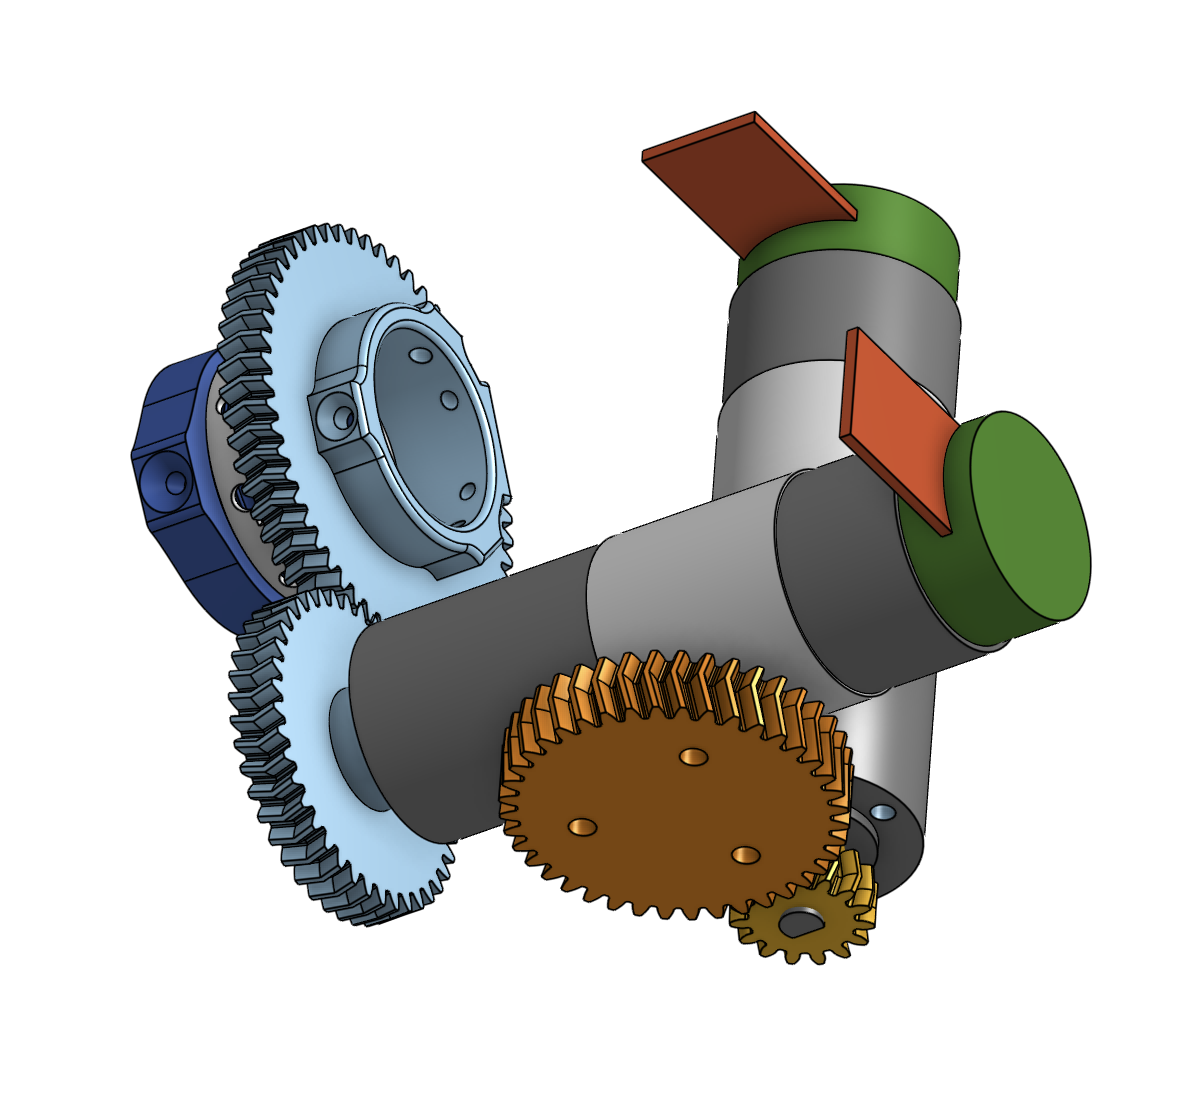
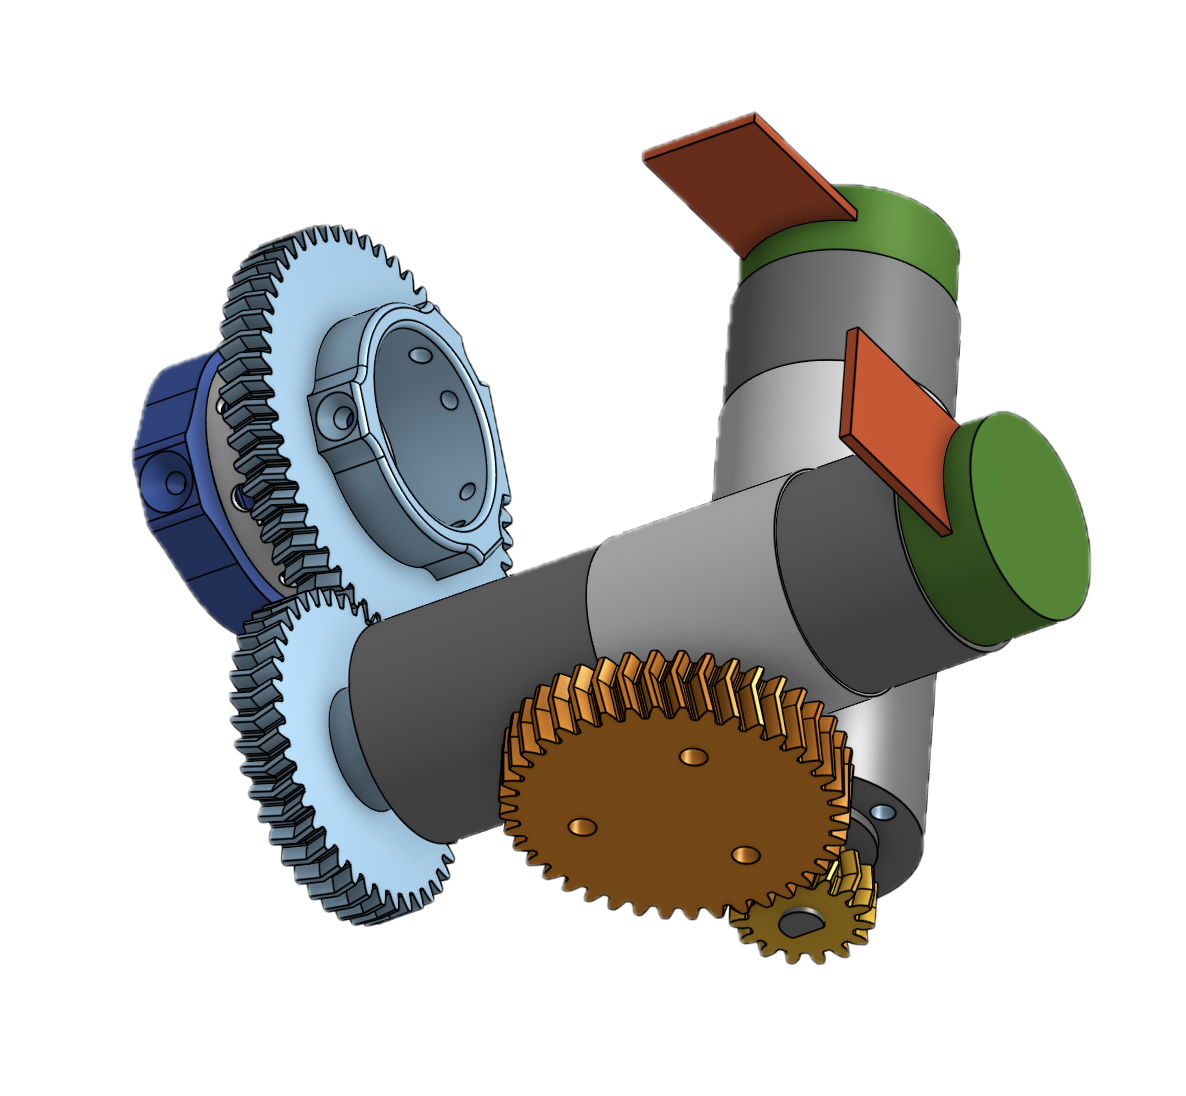
Clean up repo for thesis submission (#1)
* Clean up repo for thesis submission

- Remove internal AI dev-session logs (docs/sessions/overnight_*)
- Purge stray .DS_Store files; gitignore presentation/prep files
  (*.pptx, docs/defense_evaluation_criteria.md)
- Fix folder/file typos: "Altium FIles" -> Altium, ReadME.md -> README.md
- README: tighten and correct factual drift
  - firmware artifact labels now map to real source dirs
    (motor_rf_hat_firmware.uf2 = Firmware/rp2040-motor-rf-hat, not a placeholder)
  - v2 protection = A4950 + 100 ohm GPIO series resistors (no TVS diodes)
  - antenna = Siretta Oscar 44 Yagi (~9 dBi), as actually field-tested
  - v2 rotator BOM corrected to ~EUR 75 (~EUR 100 with Pi)
  - drop dead links to gitignored/removed files; fix broken hero image
- Update 3DP_gears_all figure

* README: add thesis/render imagery and rendered system diagram

- Hero: station close-up + field deploy + rotator internals
- Replace ASCII system diagram with rendered system_architecture.png
- Hardware: v1 motor PCB, v1 RF HAT, v2 combined board renders
- Mechanical: herringbone gear CAD cutaway + printed bearing
- New Motion control section with PID step-response plot

---------

diff --git a/README.md b/README.md
@@ -4,12 +4,15 @@ Portable, SatNOGS-compatible ground station for the **AetherSpace CubeSat** at 4
 Built as a joint Master's thesis at KU Leuven (Campus Geel), 2025–2026.
 
 <p align="center">
-  <img src="ThesisPaper/images/photos/rotator_hero_1.jpg" width="400" alt="Rotator assembly"/>
-  <img src="ThesisPaper/images/photos/rotator_hero_2.jpg" width="400" alt="Rotator assembly"/>
+  <img src="ThesisPaper/images/photos/station_closeup.jpg" width="760" alt="Station head with UHF Yagi"/>
+</p>
+<p align="center">
+  <img src="ThesisPaper/images/photos/station_wide.jpg" height="300" alt="Deployed on tripod in the field"/>
+  <img src="ThesisPaper/images/photos/rotator_hero_2.jpg" height="300" alt="Rotator internals — Pico, motor, herringbone gears"/>
 </p>
 
 <p align="center">
-  <b>3D-printable rotator</b> · <b>1/4"-20 tripod mount</b> · <b>EasyComm / hamlib compatible</b>
+  <b>3D-printable rotator</b> · <b>1/4"-20 tripod mount</b> · <b>EasyComm / hamlib compatible</b> · <b>phone-configured, no laptop</b>
 </p>
 
 ---
@@ -28,31 +31,12 @@ If you want a general-purpose SatNOGS station today, run **`satnogs-client` + RT
 
 ## System overview
 
-```
-                    ┌──────────────────────────────────┐
-                    │       Raspberry Pi 3A+           │
-                    │  rotctld + station.py + HTTPS UI │
-                    │  (SiDS telemetry; no satnogs-    │
-                    │   client — SDR-centric)          │
-                    │  USB serial ──────── UART ────── │
-                    └──────┬───────────────────┬───────┘
-                           │                   │
-                    ┌──────┴──────┐     ┌──────┴──────┐
-                    │  MotorPCB   │     │   RF HAT    │
-                    │   RP2040    │     │  Pico + 2×  │
-                    │  TB6642FG   │     │   CC1200    │
-                    │  encoders   │     │  UHF (432)  │
-                    │  ADXL345    │     │  VHF routed │
-                    └──────┬──────┘     └──────┬──────┘
-                           │                   │
-                    ┌──────┴──────┐     ┌──────┴──────┐
-                    │ AZ/EL motors│     │  SMA → Yagi │
-                    │ + gearboxes │     │   antenna   │
-                    └─────────────┘     └─────────────┘
-```
+<p align="center">
+  <img src="ThesisPaper/images/figures/system_architecture.png" width="720" alt="System architecture: Pi 3A+ driving the motor-control PCB and CC1200 RF HAT"/>
+</p>
 
 > **v1** (above) is the field-validated configuration — two separate boards, USB for the rotator, UART for the RF HAT.
-> **v2** (`MOTOR_RF_HAT/`) is the design-complete successor — one Pi HAT, A4950 motor drivers, TVS diodes, GPIO series resistors. Routed and BOM-finalised; not yet fabricated.
+> **v2** (`MOTOR_RF_HAT/`) is the design-complete successor — one Pi HAT, A4950 motor drivers, 100 Ω GPIO series resistors on the driver lines. Routed and BOM-finalised; not yet fabricated.
 
 ---
 
@@ -70,19 +54,27 @@ If you want a general-purpose SatNOGS station today, run **`satnogs-client` + RT
 | [`ThesisPaper/images/`](ThesisPaper/images/) | All thesis visuals: `figures/` (plots), `figures/evidence/` (reception evidence plots), `photos/` (hardware + CAD) — consumed by LaTeX `\graphicspath{./images/}` |
 | [`ThesisPaper/`](ThesisPaper/) | LaTeX thesis (KU Leuven FIIW template) + rendered figures |
 | [`tools/`](tools/) | Analysis utilities (`analyze_passes.py` — generates the reception-evidence report) |
-| [`docs/`](docs/) | Project-level documentation: system diagrams, session logs |
+| [`RF_Devboard/`](RF_Devboard/) | CC1200 RF dev board (predecessor to the HAT): Altium PCB, Pico SDK driver, PC test GUI |
+| [`docs/`](docs/) | System architecture diagram (`.drawio` + HTML render) |
 | `captures/` | Raw RF captures per pass (gitignored — kept on disk only) |
 | `Papers/` | Reference material including Hanssens (2023) baseline thesis (gitignored) |
 
 | Firmware artifact (at repo root) | Built by |
 |----------------------------------|----------|
-| `firmware.uf2` | `Firmware/rp2040-satnogs-rotator/` |
-| `rf_hat_firmware.uf2` | `Firmware/rp2040-rf-hat/` |
-| `motor_rf_hat_firmware.uf2` | future v2 combined firmware (placeholder) |
+| `firmware.uf2` | `Firmware/rp2040-satnogs-rotator/` (v1 rotator) |
+| `rf_hat_firmware.uf2` | `Firmware/rp2040-rf-hat/` (v1 RF HAT) |
+| `motor_rf_hat_firmware.uf2` | `Firmware/rp2040-motor-rf-hat/` (v2 combined) |
 
 ---
 
 ## Hardware
+
+<p align="center">
+  <img src="ThesisPaper/images/photos/AZEL_control_front.png" height="210" alt="v1 motor-control PCB"/>
+  <img src="ThesisPaper/images/photos/rf_hat_front.png" height="210" alt="v1 dual-CC1200 RF HAT"/>
+  <img src="ThesisPaper/images/photos/rf_hat_motor_front.png" height="210" alt="v2 combined MOTOR_RF_HAT"/>
+</p>
+<p align="center"><sub>Left to right: v1 motor-control PCB · v1 dual-CC1200 RF HAT · v2 combined MOTOR_RF_HAT (design-complete)</sub></p>
 
 | Component | Details |
 |-----------|---------|
@@ -93,7 +85,7 @@ If you want a general-purpose SatNOGS station today, run **`satnogs-client` + RT
 | **Encoders** | 2-channel Hall (64 edges/rev, 4× quadrature) |
 | **IMU** | ADXL345 3-axis accelerometer (EL auto-homing at boot) |
 | **RF** | 2× TI CC1200 on 6-layer Pi HAT — UHF (432 MHz) populated, VHF (144 MHz) routed only |
-| **Antenna** | LPRS YAGI-434A, 434 MHz, 10 dBi (recommended); turnstile (~2 dBi) used in v1 testing |
+| **Antenna** | Siretta Oscar 44 Yagi, 434 MHz, ~9 dBi (used in field testing) over 3 m RG-58 |
 | **Station computer** | Raspberry Pi 3 Model A+, Debian 13 (Trixie), armhf 32-bit |
 
 ### Axis gearing
@@ -106,6 +98,11 @@ If you want a general-purpose SatNOGS station today, run **`satnogs-client` + RT
 No slip ring — AZ rewinds between passes via `PARK`. Shortest-path wrapping handles north crossings automatically.
 
 ### Mechanical design
+
+<p align="center">
+  <img src="ThesisPaper/images/photos/gears_cad.png" width="440" alt="EL-axis CAD cutaway: herringbone gear train and Pico"/>
+  <img src="ThesisPaper/images/photos/3DP_bearings_close-up.png" width="300" alt="Printed deep-groove ball bearing"/>
+</p>
 
 Fully 3D-printable in ASA (UV-resistant, Tg ≈ 100 °C). All structural parts fit a 220×220 mm build plate. Printed deep-groove ball bearings on both axes (3 mm steel balls, integrated races, press-in retainer). Double-helical (herringbone) gears, 15° helix, 1.333 mm normal module, 8 mm face width. Standard **1/4"-20 UNC tripod thread** on the base.
 
@@ -191,9 +188,19 @@ Decoded frames are submitted directly to `db.satnogs.org/api/telemetry/` via the
 
 ---
 
+## Motion control
+
+The rotator runs a 100 Hz PID loop per axis (Kp 0.15, Ki 0.03, Kd 0.02, 0.05° deadband, 95 % duty cap). The integral and derivative terms trade overshoot against settling time:
+
+<p align="center">
+  <img src="ThesisPaper/images/figures/pid_step_overlay.png" width="640" alt="AZ-axis step response: P, PI, PD and PID compared"/>
+</p>
+
+---
+
 ## Safety features
 
-- **Runaway detection** — emergency stop if position exceeds soft limits by 50° (catches PID positive-feedback failures like the EL-inversion bug we hit in bring-up)
+- **Runaway detection** — emergency stop if position exceeds soft limits by 50° (catches PID positive-feedback failures like the EL-inversion bug found during bring-up)
 - **Soft limits** — AZ clamped to ±360°, EL clamped to 0–180°
 - **Duty capping** — 95 % max PWM, avoids TB6642FG/A4950 over-current on motor stall
 - **IMU-based EL homing** — drives EL to horizontal via ADXL345 gravity vector at boot
@@ -205,7 +212,7 @@ Decoded frames are submitted directly to `db.satnogs.org/api/telemetry/` via the
 
 ## Design philosophy
 
-- **Economical.** v2 MOTOR_RF_HAT BOM under €50 for the rotator controller board + motors + mechanics; under €100 including the Pi.
+- **Economical.** v2 rotator BOM (controller board + motors + mechanics) ≈ €75; ≈ €100 including the Pi.
 - **Reproducible.** 3D-printable rotator on a consumer FDM printer, standard 1/4"-20 tripod, LCSC-basic components where possible.
 - **Stock-protocol.** EasyComm + hamlib on the rotator; SiDS on the DB side. No proprietary glue.
 - **Open source.** Hardware CERN-OHL-S, firmware and software MIT.
@@ -214,8 +221,7 @@ Decoded frames are submitted directly to `db.satnogs.org/api/telemetry/` via the
 
 ## Further reading
 
-- `ThesisPaper/draft.md` — full thesis draft (local only; not checked into repo).
-- `ThesisPaper/draft_link_budget.md` — link-budget analysis with LNA impact.
-- `captures/evidence/signal_evidence.md` — 2026-04-13 authoritative synthesis of the reception data.
-- `docs/sessions/` — overnight test plans and results.
-- `docs/system_architecture.drawio` — editable system diagram.
+- [`ThesisPaper/`](ThesisPaper/) — full LaTeX thesis (KU Leuven FIIW template) and figures.
+- [`ThesisPaper/draft_link_budget.md`](ThesisPaper/draft_link_budget.md) — link-budget analysis with LNA impact.
+- [`docs/system_architecture.drawio`](docs/system_architecture.drawio) — editable system diagram (`docs/system_diagram.html` renders it).
+- Per-board READMEs under [`Firmware/`](Firmware/), [`Pi/`](Pi/), [`MotorPCB/`](MotorPCB/), [`RF_HAT/`](RF_HAT/), and [`MOTOR_RF_HAT/`](MOTOR_RF_HAT/).
